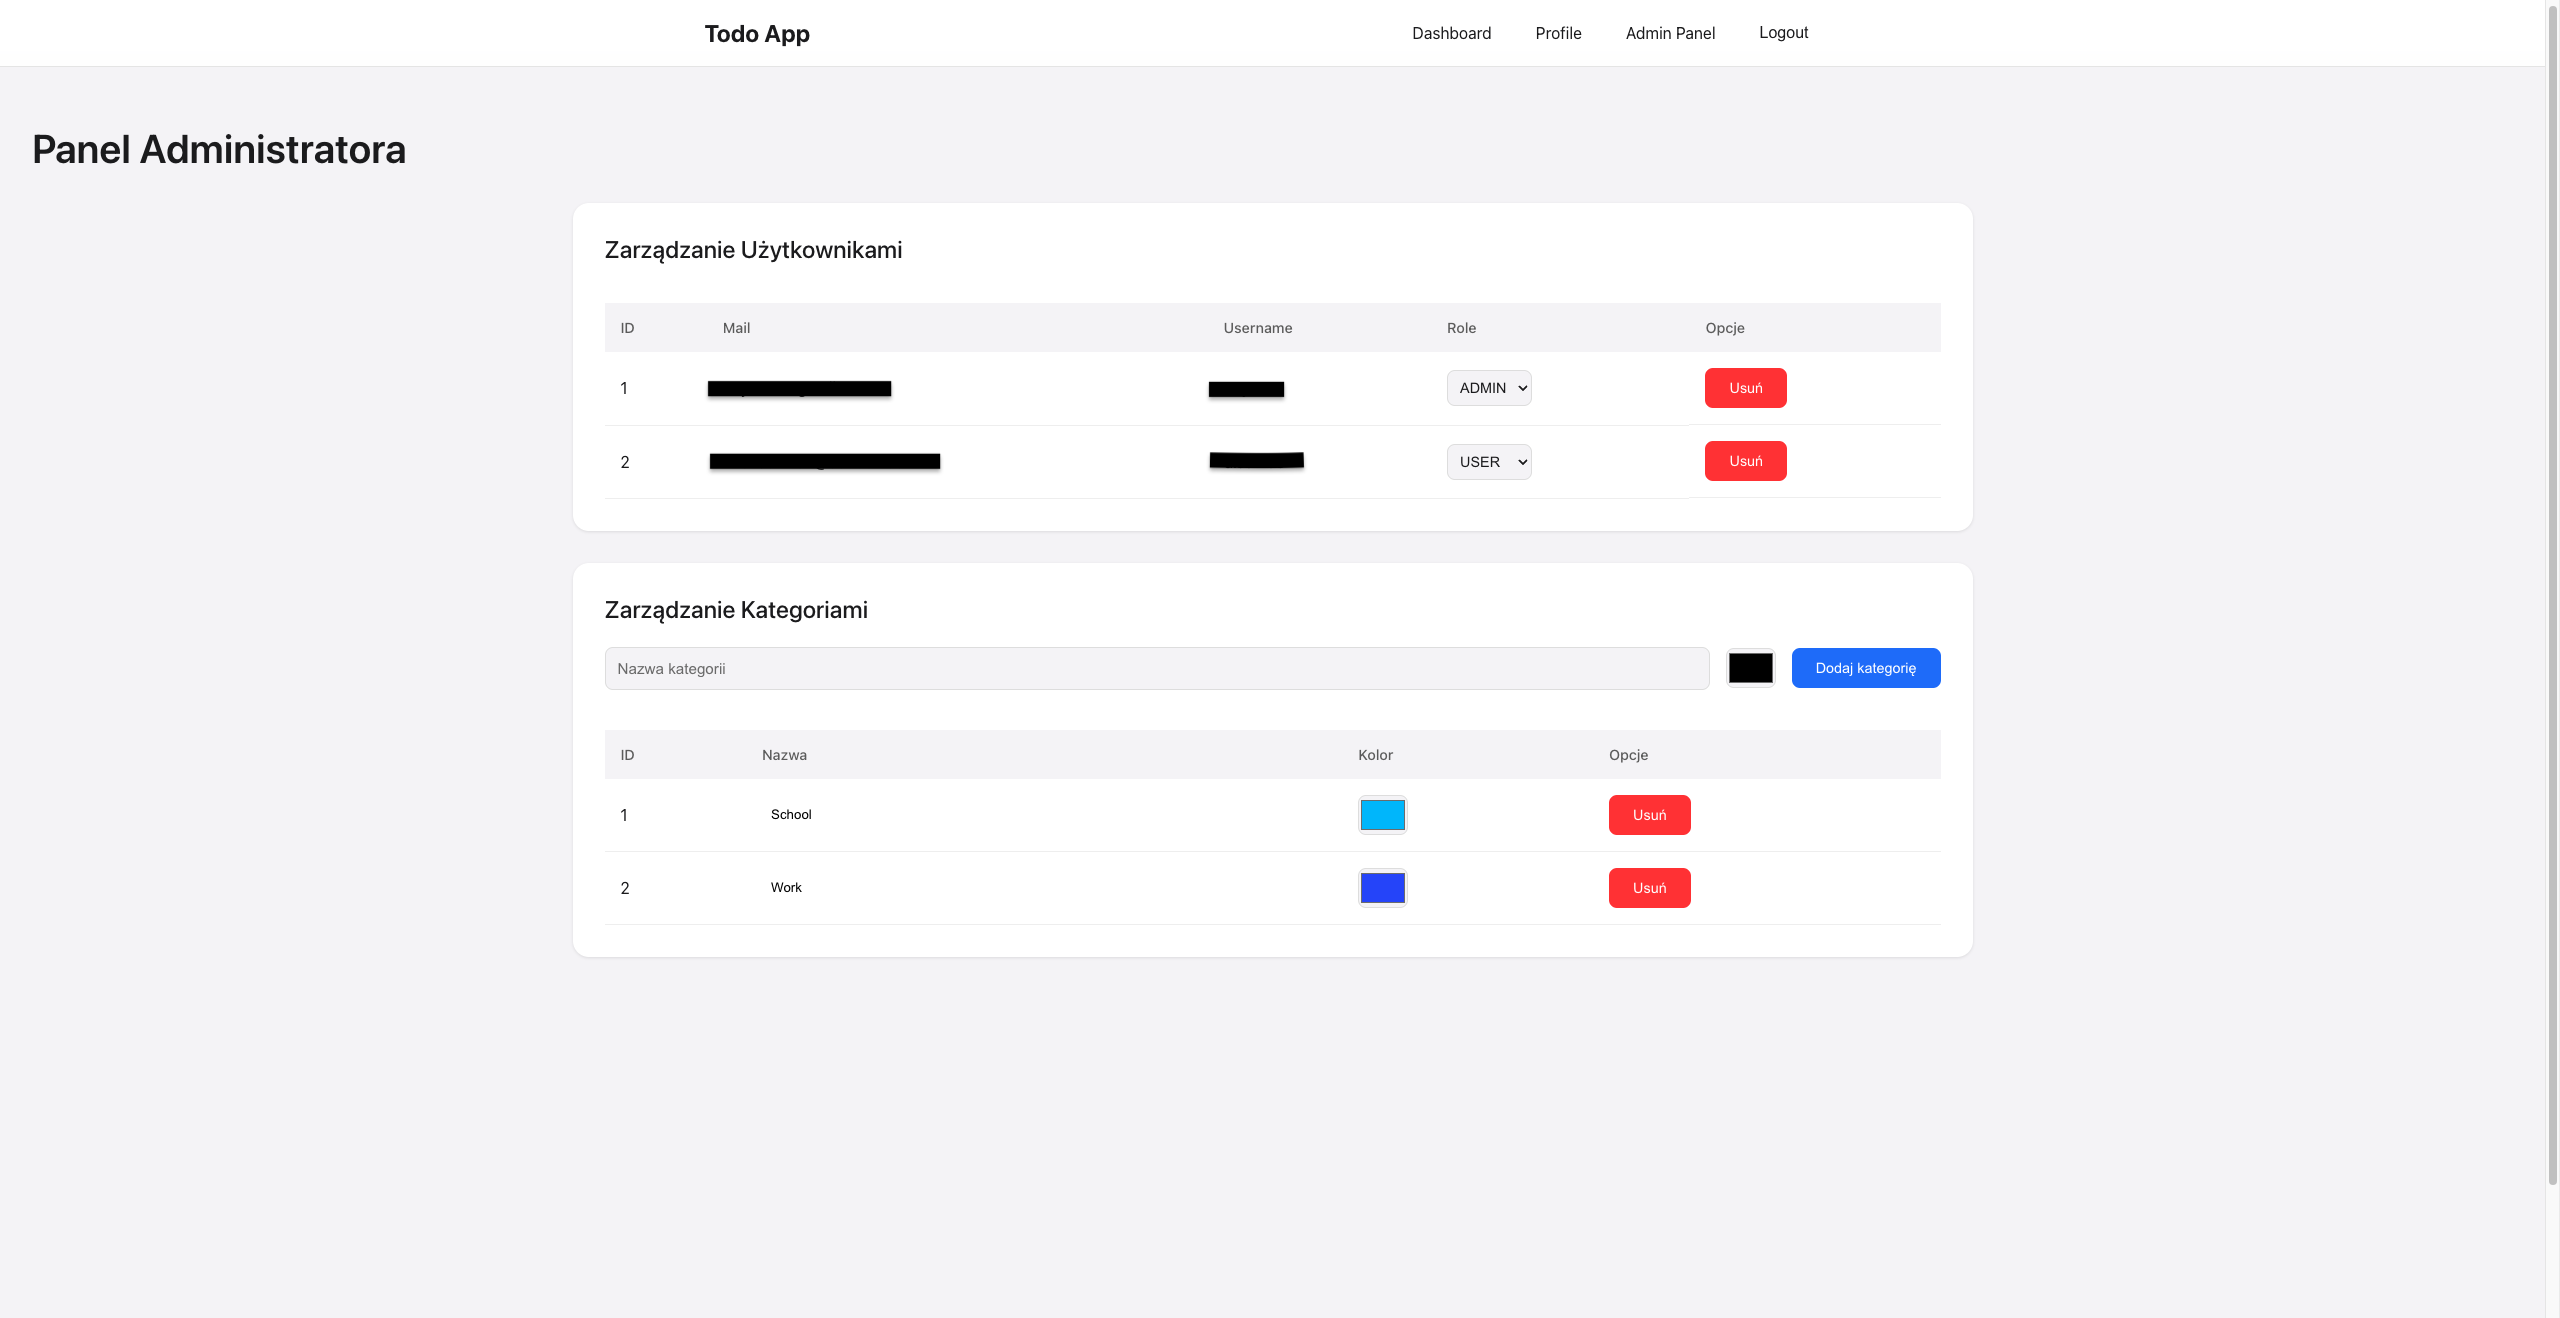
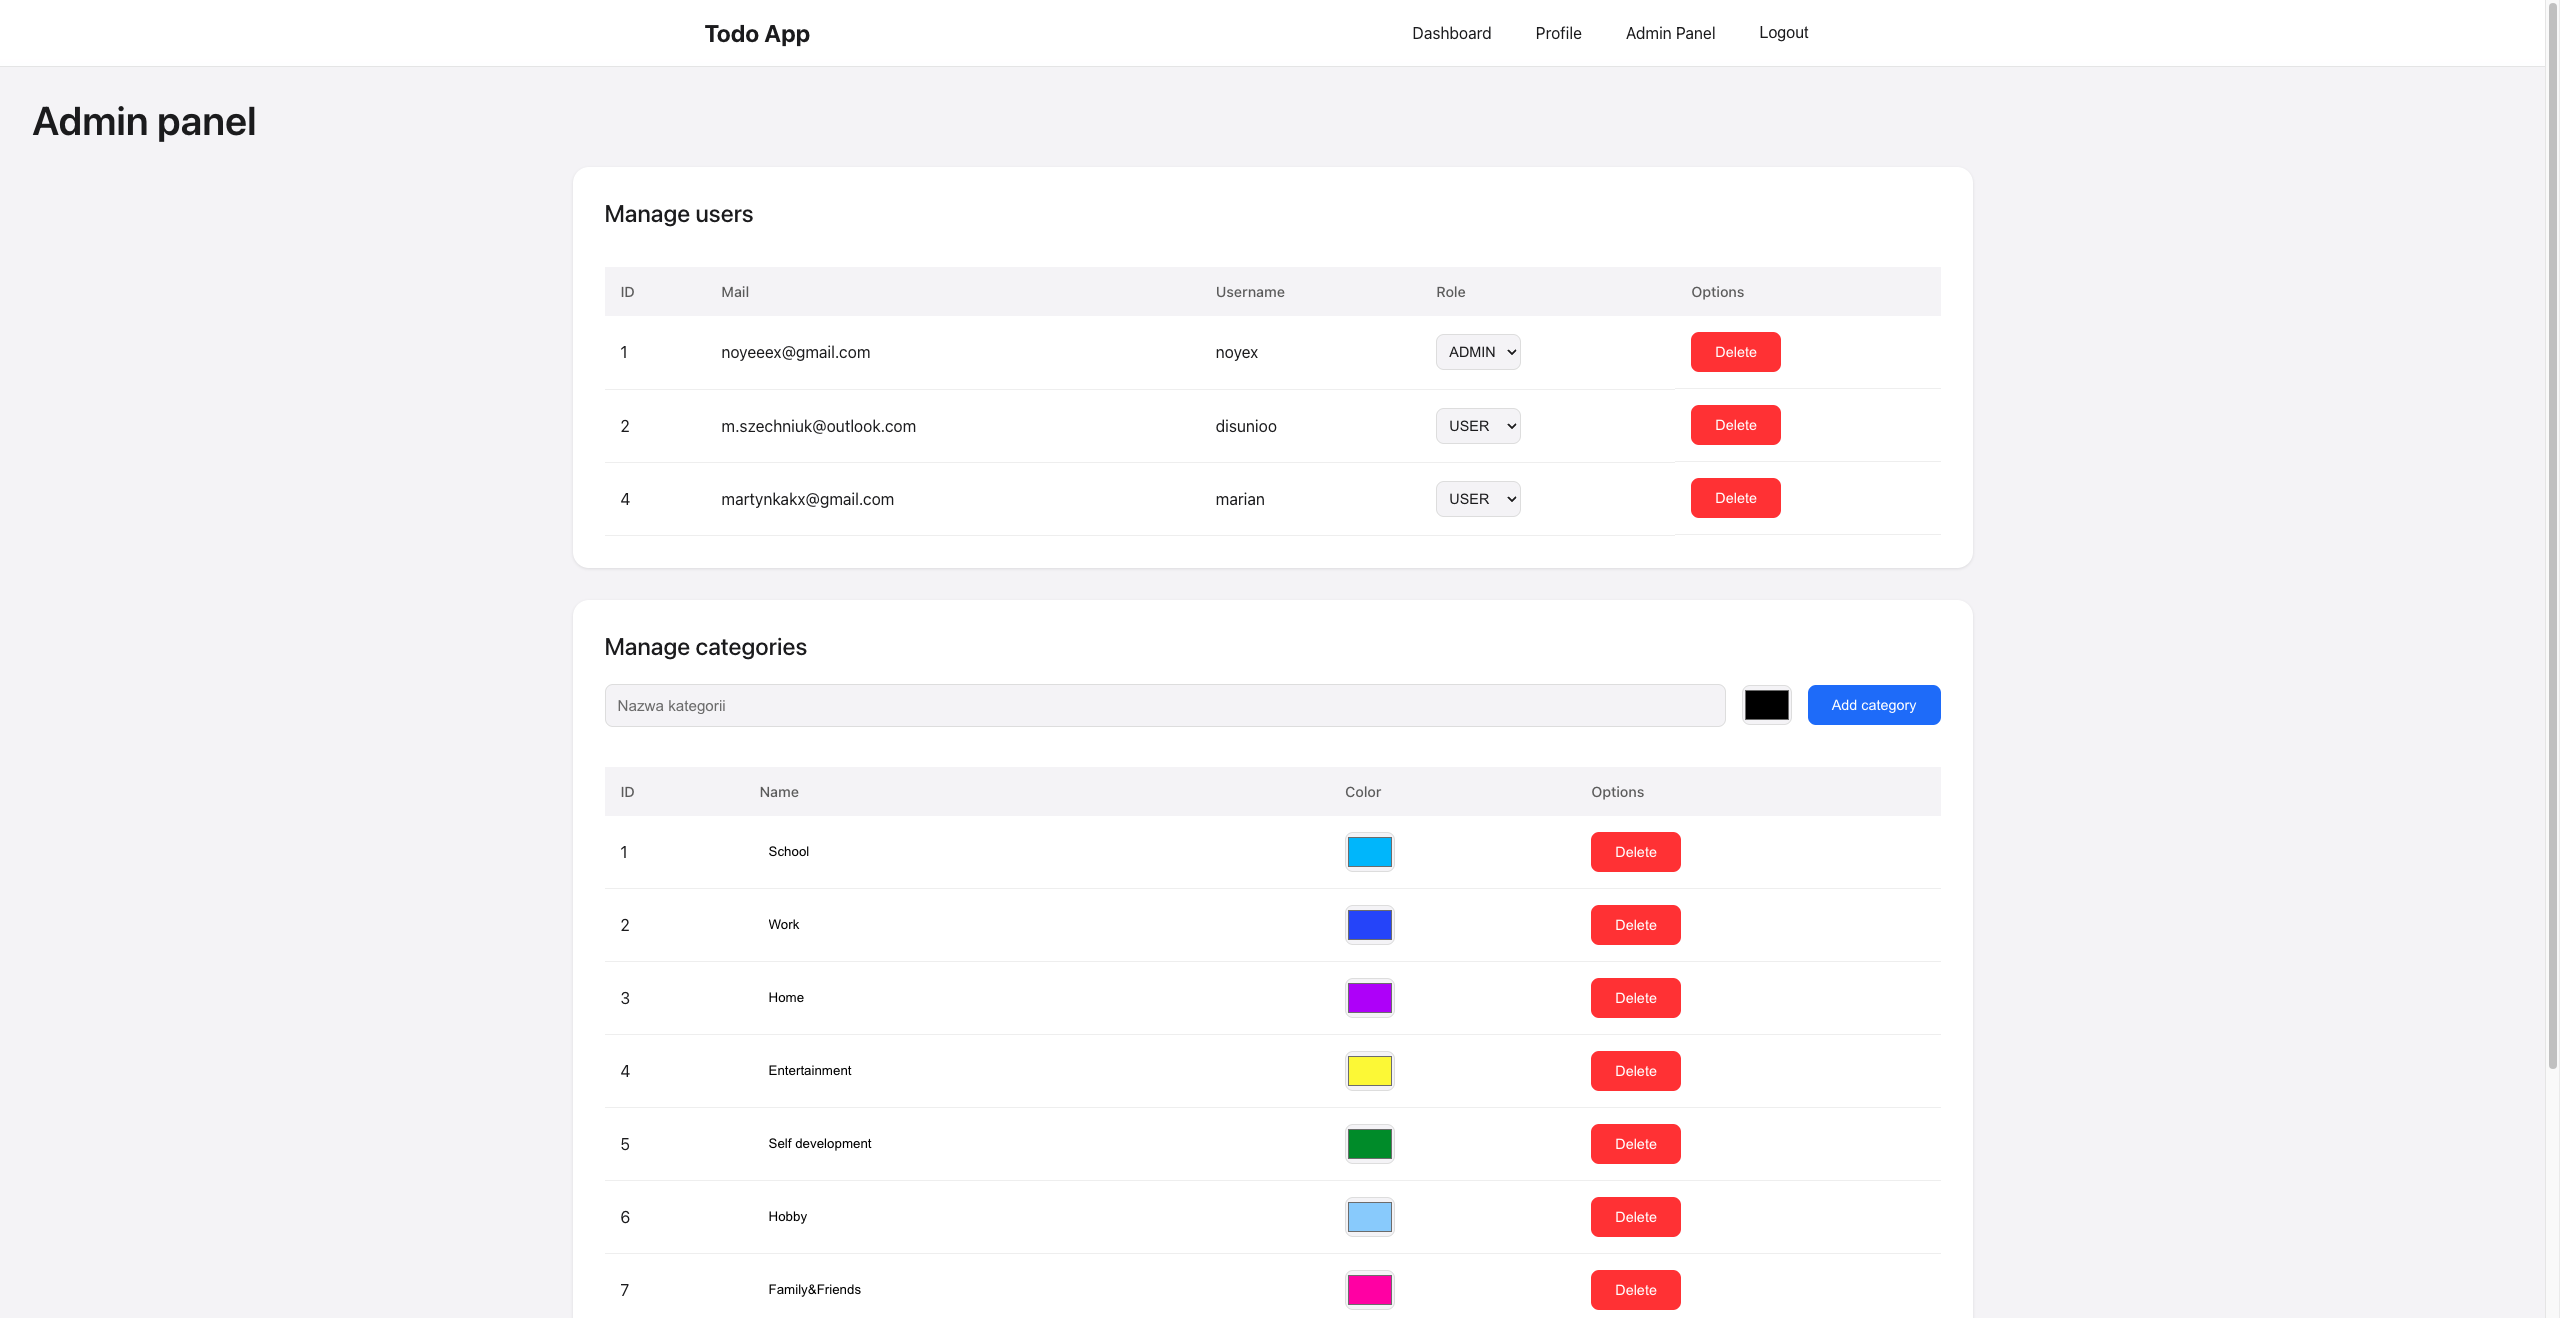
updated admin panel ss

diff --git a/todo-app-frontend/src/components/AdminPanel.jsx b/todo-app-frontend/src/components/AdminPanel.jsx
@@ -162,11 +162,11 @@ const AdminPanel = () => {
 
   return (
     <div className="dashboard-page">
-      <h1>Panel Administratora</h1>
+      <h1>Admin panel</h1>
       <div className="dashboard-content">
         <div className="admin-container">
           <div className="section users-section">
-            <h2>Zarządzanie Użytkownikami</h2>
+            <h2>Manage users</h2>
             <div className="table-container">
               <table>
                 <thead>
@@ -175,7 +175,7 @@ const AdminPanel = () => {
                     <th>Mail</th>
                     <th>Username</th>
                     <th>Role</th>
-                    <th>Opcje</th>
+                    <th>Options</th>
                   </tr>
                 </thead>
                 <tbody>
@@ -196,7 +196,7 @@ const AdminPanel = () => {
                       </td>
                       <td className="action-buttons">
                         <button className="delete-btn" onClick={() => handleDeleteUser(user.id)}>
-                          Usuń
+                          Delete
                         </button>
                       </td>
                     </tr>
@@ -207,7 +207,7 @@ const AdminPanel = () => {
           </div>
 
           <div className="section categories-section">
-            <h2>Zarządzanie Kategoriami</h2>
+            <h2>Manage categories</h2>
             <div className="add-category">
               <input 
                 type="text"
@@ -223,7 +223,7 @@ const AdminPanel = () => {
                 className="color-input"
               />
               <button onClick={handleAddCategory} className="add-btn">
-                Dodaj kategorię
+                Add category
               </button>
             </div>
             <div className="table-container">
@@ -231,9 +231,9 @@ const AdminPanel = () => {
                 <thead>
                   <tr>
                     <th>ID</th>
-                    <th>Nazwa</th>
-                    <th>Kolor</th>
-                    <th>Opcje</th>
+                    <th>Name</th>
+                    <th>Color</th>
+                    <th>Options</th>
                   </tr>
                 </thead>
                 <tbody>
@@ -258,7 +258,7 @@ const AdminPanel = () => {
                       </td>
                       <td>
                         <button className="delete-btn" onClick={() => handleDeleteCategory(category.id)}>
-                          Usuń
+                          Delete
                         </button>
                       </td>
                     </tr>
